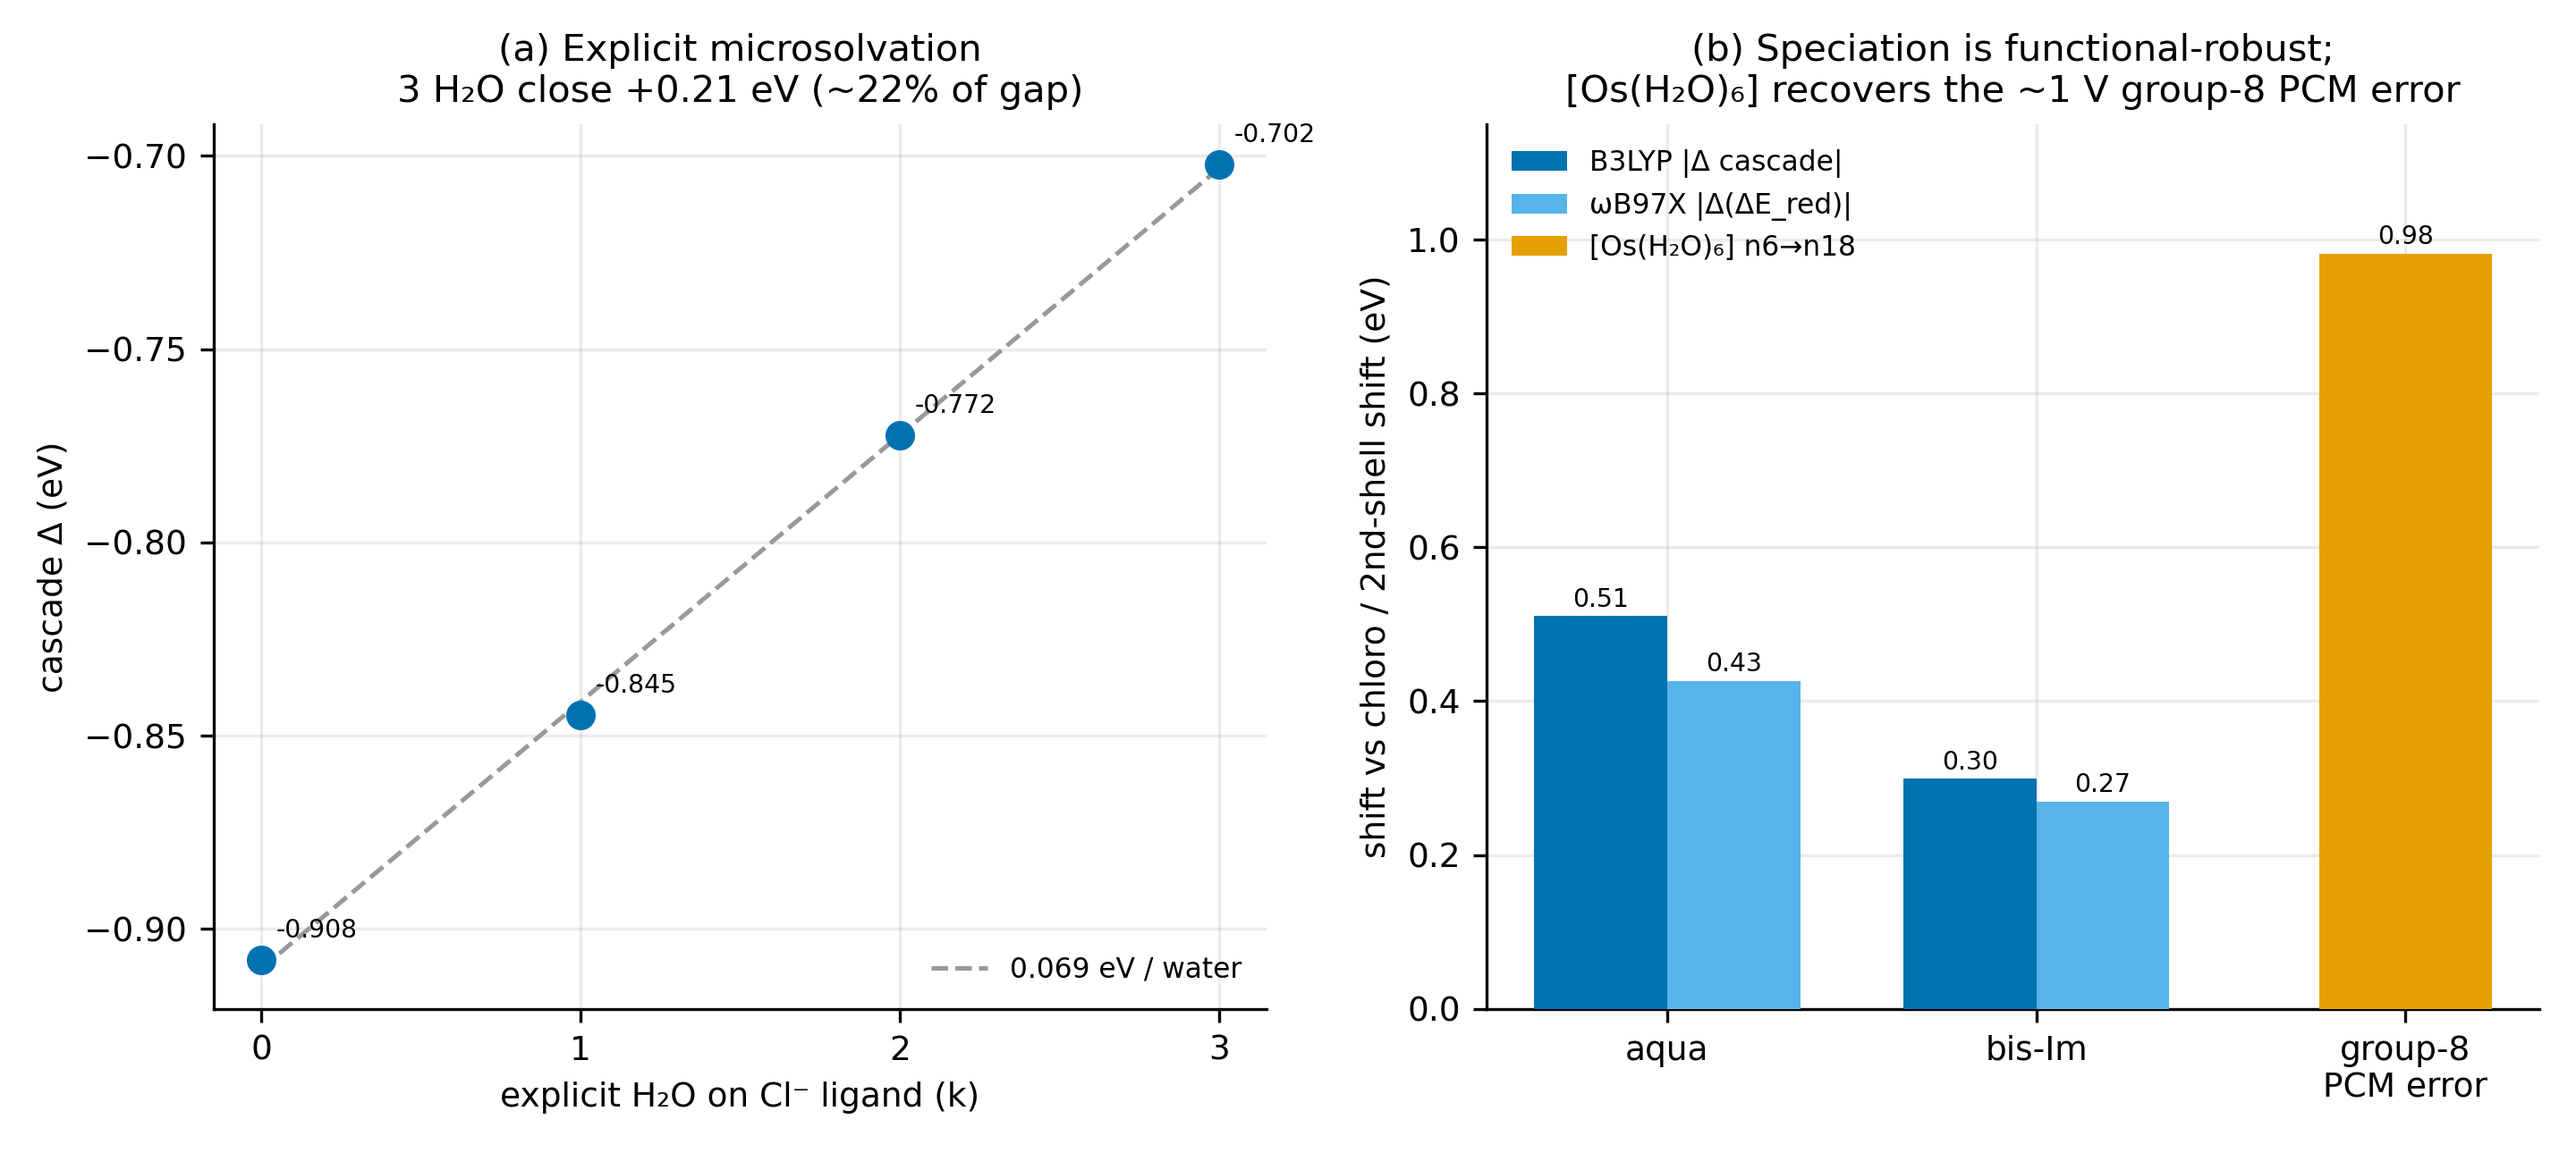
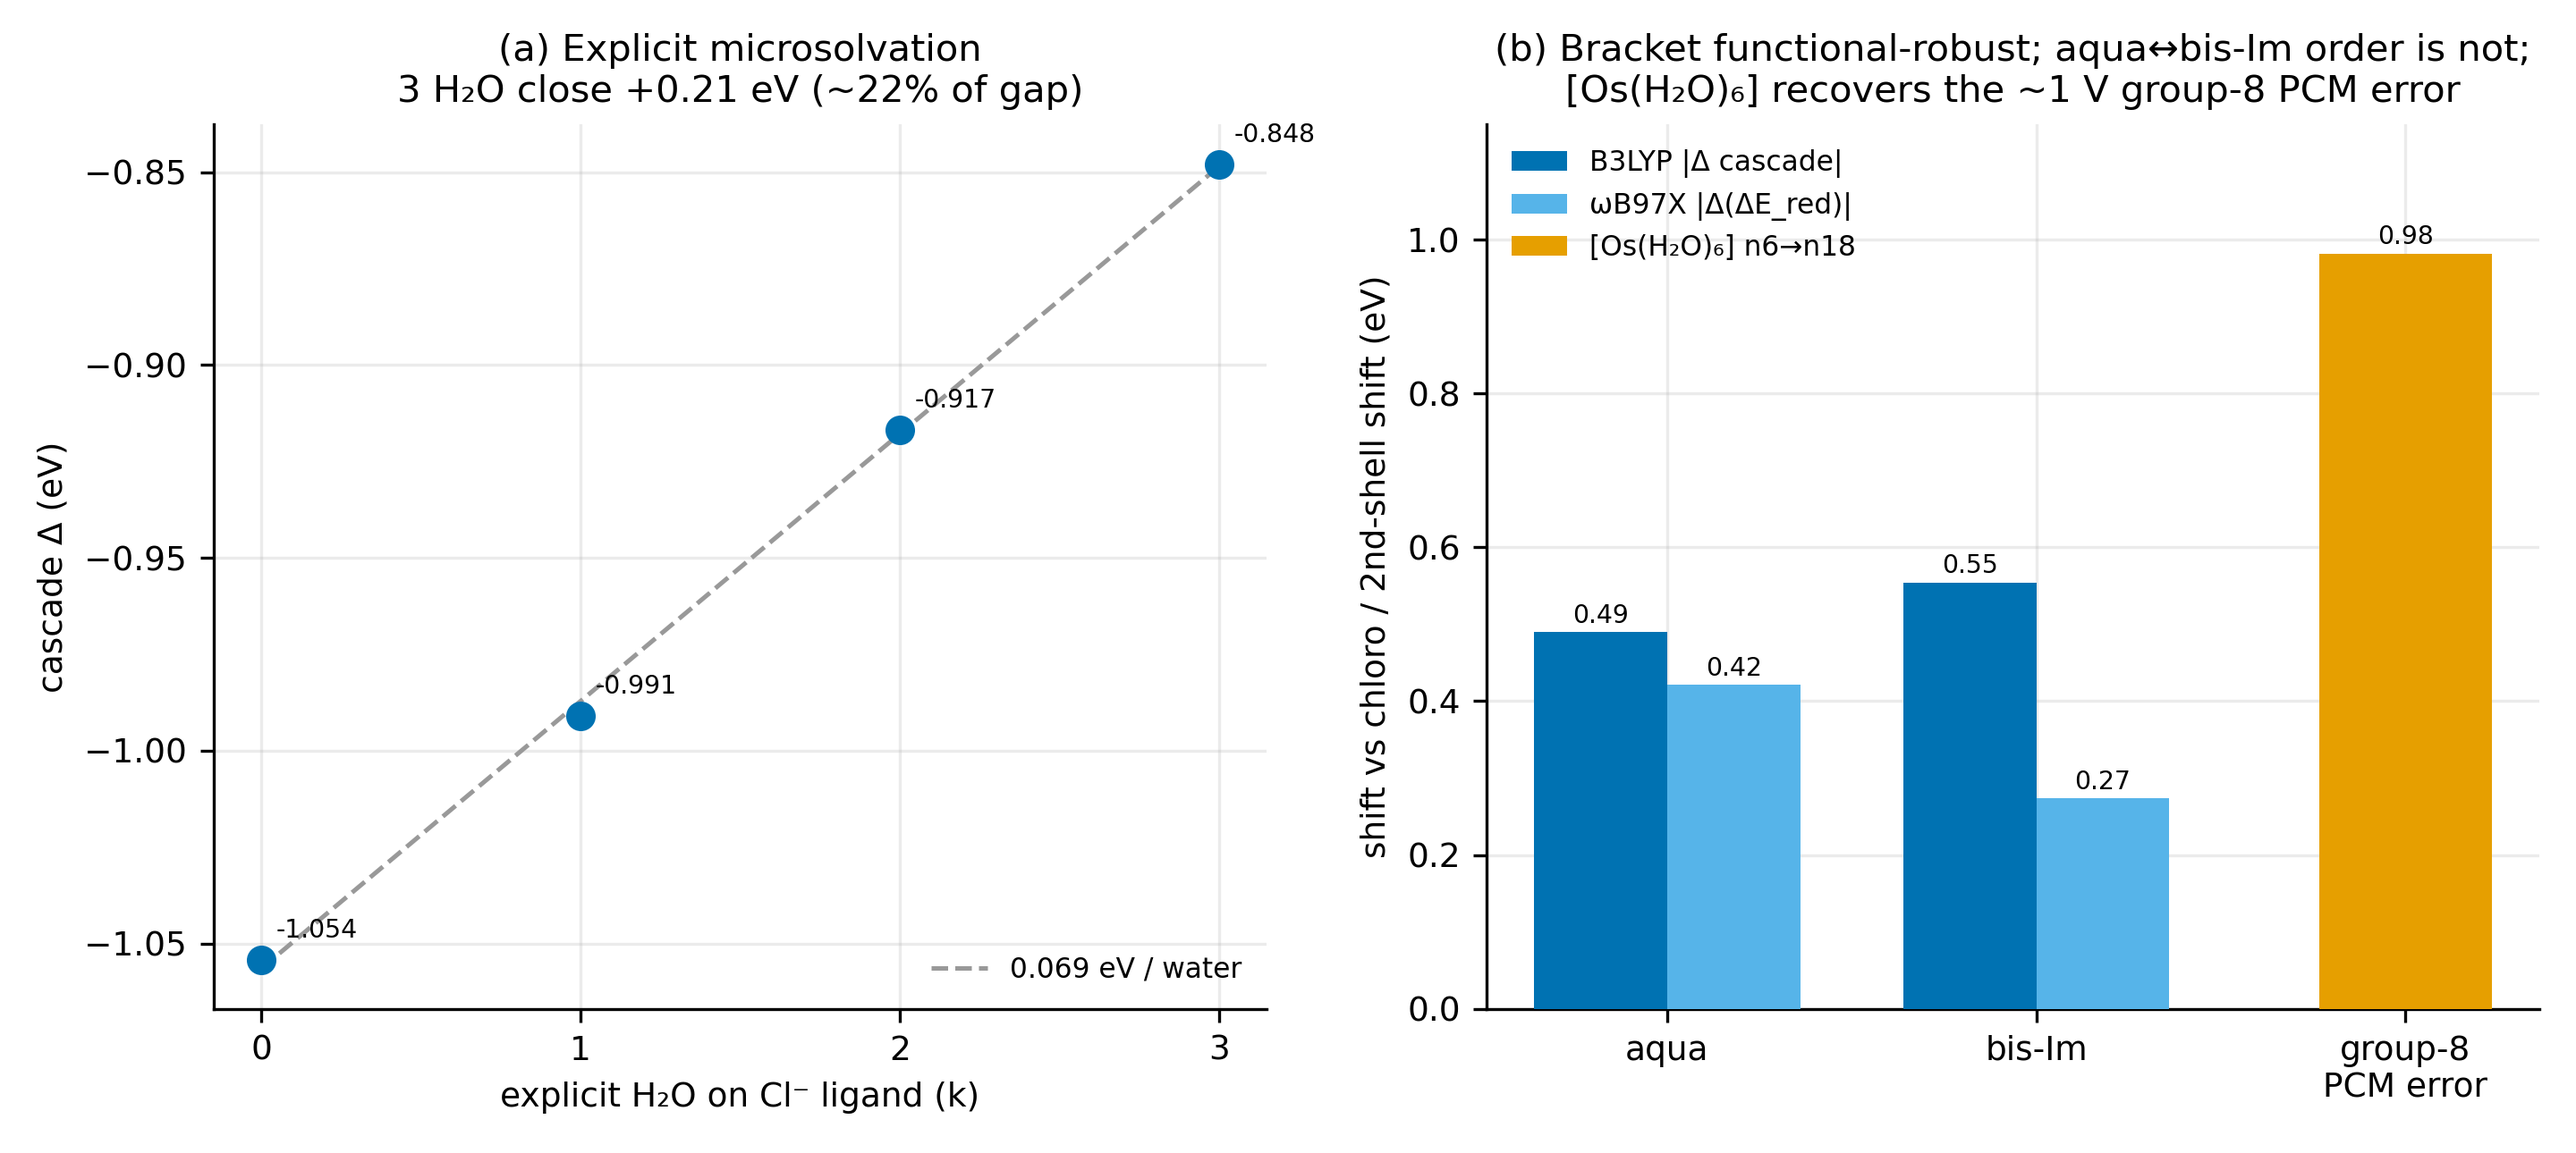
chem(os-recompute): B4 ωB97X dimethyl speciation + fig3/fig5 dmbpy closure
B4 (34b --dimethyl, 7.2h, 3/3 forms converged via Newton ⟨S²⟩≈0.754):
  chloro −4.247 → aqua −4.668 (+0.42) / bis-Im −4.521 (+0.27 eV vs chloro)

Key finding — ωB97X does NOT reproduce the B3LYP-dimethyl bis-Im>aqua flip:
- chloro↔+2/+3 BRACKET functional-robust (both forms > chloro at both functionals)
- internal aqua↔bis-Im order functional-SENSITIVE (ωB97X aqua>bis-Im like plain bpy;
  B3LYP-dimethyl uniquely bis-Im>aqua; within <0.15 eV)
- aqua = methodological benchmark only → operando chloro↔bis-Im bracket holds at
  both functionals → the ② gap-decomposition is robust

- 60 fig5 → dmbpy caches (microsolvation_dmbpy + wb97x_speciation_dmbpy; group-8
  n6/n18 from the plain cache, bpy-independent); fig5(b) title made honest
- 60 fig3 → dmbpy asserts (os_complex.json became dmbpy in 3756ed6; anchor-prep
  2e930c8 missed the cascade-ladder asserts): Os(III) LUMO −4.228→−4.086, Δε −0.909→−1.051
- SUMMARY §Cluster: flip→functional-sensitive; Verdict bis-Im +0.55 B3LYP / +0.27 ωB97X;
  ωB97X cross-check ✅ B4; PIPELINE 34b-row B4-done

Tail: 33-rerun (dmbpy Os cascade +1.478→~+1.627).

diff --git a/tools/in_silico/scripts/60_paper_figures.py b/tools/in_silico/scripts/60_paper_figures.py
@@ -91,8 +91,8 @@ def fig3() -> None:
     os3_lumo = osc["os3_plus"]["LUMO_eV"]
     raw_delta = fadh2_homo - os3_lumo
     _close(fadh2_homo, -5.137, 0.01, "FADH₂ HOMO")
-    _close(os3_lumo, -4.228, 0.01, "Os(III) LUMO")
-    _close(raw_delta, -0.909, 0.01, "raw Δε")
+    _close(os3_lumo, -4.086, 0.01, "Os(III) LUMO (dimethyl)")
+    _close(raw_delta, -1.051, 0.01, "raw Δε (dimethyl)")
     e_pcet_ph7 = pcet["E_vs_SHE_mV"]["pH_7.0"]
     _close(e_pcet_ph7, -158.4, 1.0, "PCET E° pH7")
     _close(pcet["delta_vs_exp_pH7_mV"], 49.6, 1.0, "PCET Δ vs exp")
@@ -266,8 +266,10 @@ def fig4() -> None:
 # Fig 5 — solvation / PCM limit (②): (a) explicit waters · (b) speciation + benchmark
 # ─────────────────────────────────────────────────────────────────────────────
 def fig5() -> None:
-    micro = {r["name"]: r for r in _load("microsolvation.json")["results"]}
-    wb = {f["name"]: f for f in _load("wb97x_speciation.json")["forms"]}
+    micro = {r["name"]: r for r in _load("microsolvation_dmbpy.json")["results"]}   # dimethyl mediator (the device Os)
+    # [Os(H₂O)₆] group-8 benchmark is bpy-independent → from the plain cache (the dmbpy run omits n18)
+    grp8src = {r["name"]: r for r in _load("microsolvation.json")["results"]}
+    wb = {f["name"]: f for f in _load("wb97x_speciation_dmbpy.json")["forms"]}       # B4 ωB97X dimethyl cross-check
 
     k0 = micro["mediator_k0_clwaters"]["cascade_delta_eV"]
     kseries = [
@@ -278,12 +280,12 @@ def fig5() -> None:
     ]
     aqua_shift = micro["aqua_meim_h2o"]["cascade_delta_eV"] - k0
     bisim_shift = micro["bisim_meim2"]["cascade_delta_eV"] - k0
-    n6 = micro["aquo_n6_innershell"]["dE_red_eV"]
-    n18 = micro["aquo_n18_twoshell"]["dE_red_eV"]
+    n6 = grp8src["aquo_n6_innershell"]["dE_red_eV"]
+    n18 = grp8src["aquo_n18_twoshell"]["dE_red_eV"]
     grp8 = n18 - n6
-    _close(k0, -0.908, 0.01, "② chloro k0")
-    _close(aqua_shift, 0.510, 0.02, "② aqua speciation shift")
-    _close(bisim_shift, 0.299, 0.02, "② bis-Im speciation shift")
+    _close(k0, -1.054, 0.01, "② chloro k0 (dimethyl)")
+    _close(aqua_shift, 0.490, 0.02, "② aqua speciation shift (dimethyl)")
+    _close(bisim_shift, 0.554, 0.02, "② bis-Im speciation shift (dimethyl)")
     _close(grp8, 0.982, 0.02, "② group-8 n6→n18")
 
     fig, (axa, axb) = plt.subplots(1, 2, figsize=(9.6, 4.3))
@@ -326,7 +328,7 @@ def fig5() -> None:
     axb.set_xticks([*list(xs), gx])
     axb.set_xticklabels([*species, "group-8\nPCM error"])
     axb.set_ylabel("shift vs chloro / 2nd-shell shift (eV)")
-    axb.set_title("(b) Speciation is functional-robust;\n[Os(H₂O)₆] recovers the ~1 V group-8 PCM error")
+    axb.set_title("(b) Bracket functional-robust; aqua↔bis-Im order is not;\n[Os(H₂O)₆] recovers the ~1 V group-8 PCM error")
     axb.legend(loc="upper left", frameon=False)
     axb.set_ylim(0, 1.15)
 

diff --git a/docs/protocols/ebfc/in_silico/SUMMARY.md b/docs/protocols/ebfc/in_silico/SUMMARY.md
@@ -239,23 +239,29 @@ since the Os(II) d⁶ couple is substitution-**inert**, and the PVI-realistic fo
 - **bis-Im** cis-[Os(dmbpy)₂(1-MeIm)₂]²⁺/³⁺ → cascade Δ **−0.500 = +0.554 eV vs chloro** (the PVI-realistic **upper bracket**).
 - **aqua** cis-[Os(dmbpy)₂(1-MeIm)(H₂O)]²⁺/³⁺ → cascade Δ **−0.565 = +0.490 eV vs chloro** (methodological benchmark — aquation unlikely on the inert couple).
 
-On the **real dimethyl mediator the ranking flips to bis-Im > aqua > chloro** (on plain bpy
-it was aqua > bis-Im): the strong σ-donor 2nd imidazole combined with the 4,4'-dimethyl
-donors makes bis-Im the strongest acceptor. Both +2/+3 forms carry the larger group-8 PCM
-bias (benchmark a).
+On the dimethyl mediator **B3LYP gives bis-Im > aqua > chloro** (on plain bpy it was aqua >
+bis-Im) — the strong σ-donor 2nd imidazole plus the 4,4'-dimethyl donors. **This internal
+aqua↔bis-Im flip is functional-sensitive, though** — the ωB97X cross-check (B4, §below) keeps
+aqua > bis-Im (within 0.15 eV). What *is* functional-robust is the chloro(+1/+2) ↔ {aqua,
+bis-Im}(+2/+3) bracket — both +2/+3 forms sit above chloro at both functionals, and both
+carry the larger group-8 PCM bias (benchmark a).
 
 **Verdict (chloro-anchored bracket):** the real mediator is **chloro** (Zafar +309 mV), so
 the raw-DFT↔exp gap is differential PCM solvation **bracketed** between the as-synthesised
 **chloro (+1/+2, lower — +0.21 eV/3 waters, trending to a sub-1-eV full shell)** and the
-operando **bis-Im (+2/+3, upper — +0.55 eV, PVI-realistic)**, plus the **4,4'-dimethyl
+operando **bis-Im (+2/+3, upper — +0.55 eV B3LYP / +0.27 ωB97X, PVI-realistic)**, plus the **4,4'-dimethyl
 substituent** (+0.146 eV, a separate axis ①). aqua is a methodological benchmark, **not**
 "what the experiment measures" — the earlier "exp = aqua" framing is **withdrawn** (Zafar's
 polymer is explicitly chloro). The gap is a **quantified method limit**, not a chemistry
 failure; rigorous closure = QM/MM of the **chloro** species (школа Мінаєва).
 
-**ωB97X cross-check (script 34b):** the speciation trend is functional-robust on plain bpy
-(aqua/bis-Im shifts reproduced at the range-separated hybrid); the dimethyl cross-check
-re-runs as B4 (`wb97x_speciation_dmbpy.json`).
+**ωB97X cross-check (script 34b ✅ B4):** on the dimethyl mediator ωB97X ΔSCF puts **both
+aqua (+0.42) and bis-Im (+0.27 eV vs chloro) above the as-synthesised chloro** — so the
+chloro↔+2/+3 **bracket is functional-robust**. The internal aqua↔bis-Im order is **not**:
+ωB97X keeps **aqua > bis-Im** (the plain-bpy order), whereas B3LYP-dimethyl uniquely flipped
+to bis-Im > aqua (the two within <0.15 eV). Since aqua is only a methodological benchmark,
+the operando **chloro↔bis-Im bracket holds at both functionals**. Cache
+`wb97x_speciation_dmbpy.json` (3/3 forms converged via Newton, ⟨S²⟩≈0.754).
 
 ### Electron Tunneling Pathway (script 28, Beratan-Onuchic)
 

diff --git a/docs/protocols/ebfc/in_silico/PIPELINE_STATUS.md b/docs/protocols/ebfc/in_silico/PIPELINE_STATUS.md
@@ -51,7 +51,7 @@
 | 32 | `pcet_redox_potential` | E°(FAD/FADH₂) **-158 mV** (Δ50 mV vs free-flavin exp) — PCET valid w/ implicit solvent | `dft/pcet_redox_potential.json` |
 | 33 | `pcet_cascade_semiquinone` | PCET cost +5.87 eV → cascade +1.48 eV, **does NOT flip downhill** (~1 eV = PCM solvation limit) | `dft/pcet_cascade.json` |
 | 34 | `dft_microsolvation` | **② chloro-bracket (dimethyl)**: [Os(H₂O)₆] **+0.98 eV** benchmark, chloro Cl⁻-solvation **+0.21 eV** (+1/+2 lower), bis-Im **+0.55** / aqua **+0.49** (+2/+3 upper) + substituent **+0.146** → gap = decomposed method limit | `dft/microsolvation_dmbpy.json` |
-| 34b | `wb97x_speciation` | **② ωB97X cross-check** (plain bpy: functional-robust, aqua > bis-Im > chloro); **dimethyl re-run = B4 pending** | `dft/wb97x_speciation[_dmbpy].json` |
+| 34b | `wb97x_speciation` | **② ωB97X cross-check ✅** (B4 dimethyl): chloro↔+2/+3 **bracket functional-robust** (both functionals); internal aqua↔bis-Im order functional-**sensitive** (ωB97X aqua>bis-Im, B3LYP-dimethyl bis-Im>aqua, <0.15 eV) | `dft/wb97x_speciation[_dmbpy].json` |
 | 35 | `dft_metal_reorganization` | **③** computed inner-sphere λ (Nelsen 4-pt): Ru **0.78**, Ce 0.87, Co 3.09 (B3LYP spin-crossover ~2× over-est) | `dft/metal_reorganization.json` |
 | 40 | `validate_vs_experiment` | predictions ready for Ti-coin CV/EIS | `kinetics/validation_report.json` |
 | 50 | `thermal_stress_lame` | safety 9.9× at -30°C; press-fit P_c 34.7→22.6 MPa (stress relaxation, not creep); O-ring seals, barbs axial-only | `kinetics/thermal_stress_lame.json` |
